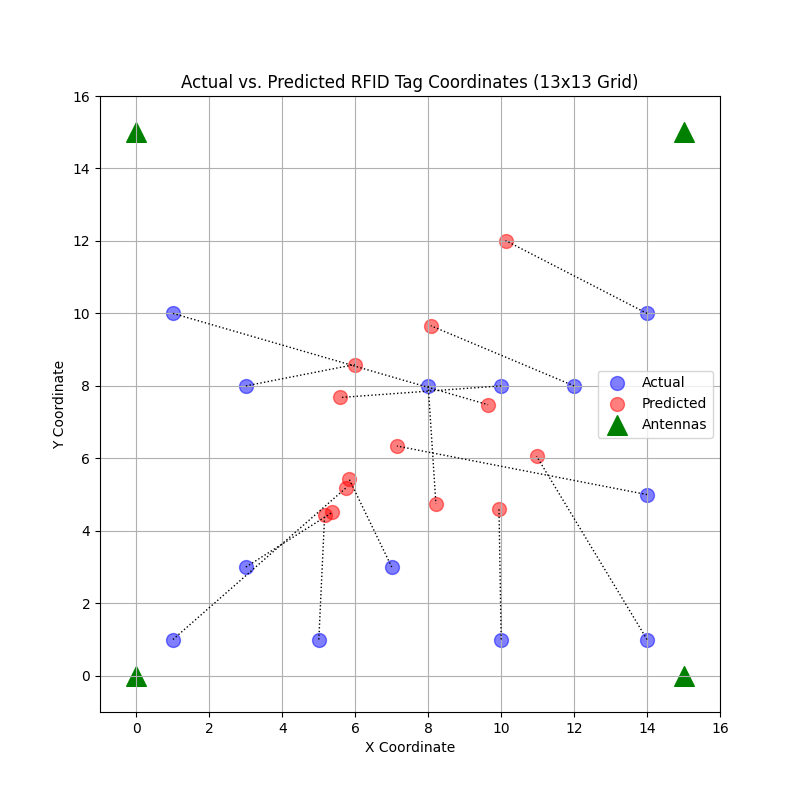
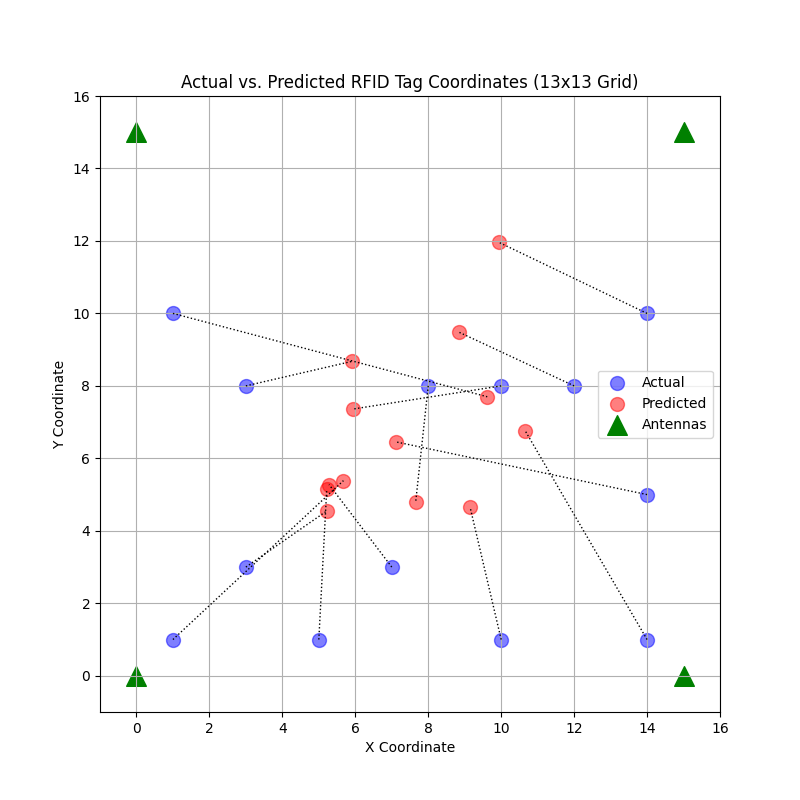
up

diff --git a/RandomForest/randomForest.py b/RandomForest/randomForest.py
@@ -75,7 +75,7 @@ y = pivot_data[['x_coord', 'y_coord']]  # Predict both x and y coordinates
 X_train, X_test, y_train, y_test = train_test_split(X, y, test_size=0.2, random_state=42)
 
 # Train Random Forest model with 100 trees
-rf_model = RandomForestRegressor(n_estimators=100, random_state=42)
+rf_model = RandomForestRegressor(n_estimators=400, random_state=42)
 rf_model.fit(X_train, y_train)
 
 ######################################################
